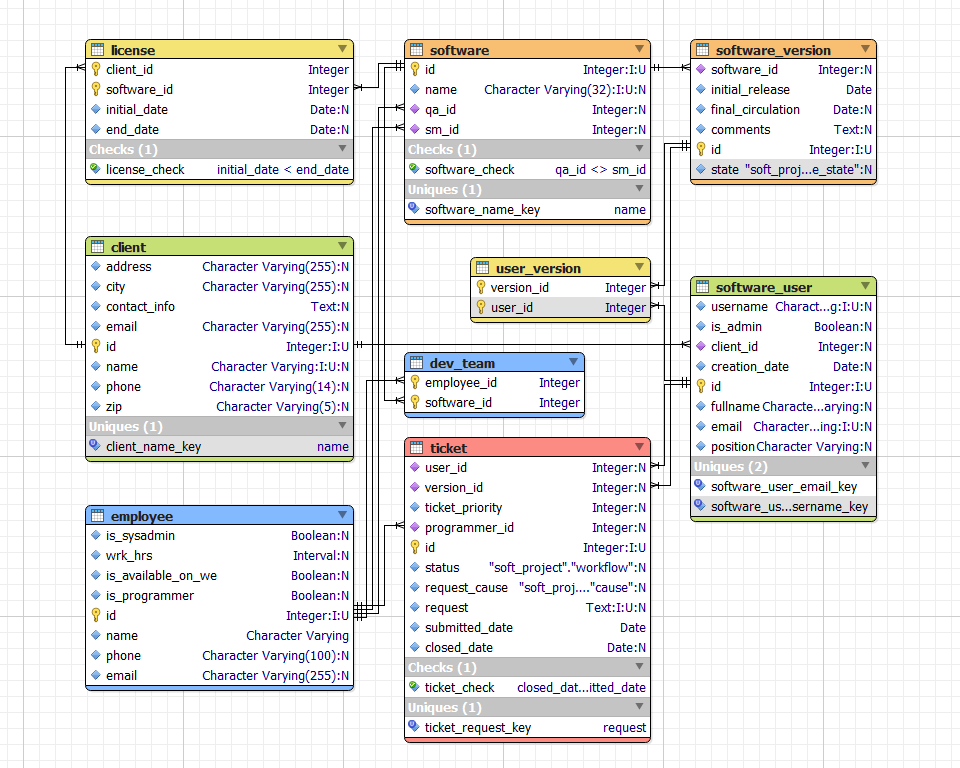
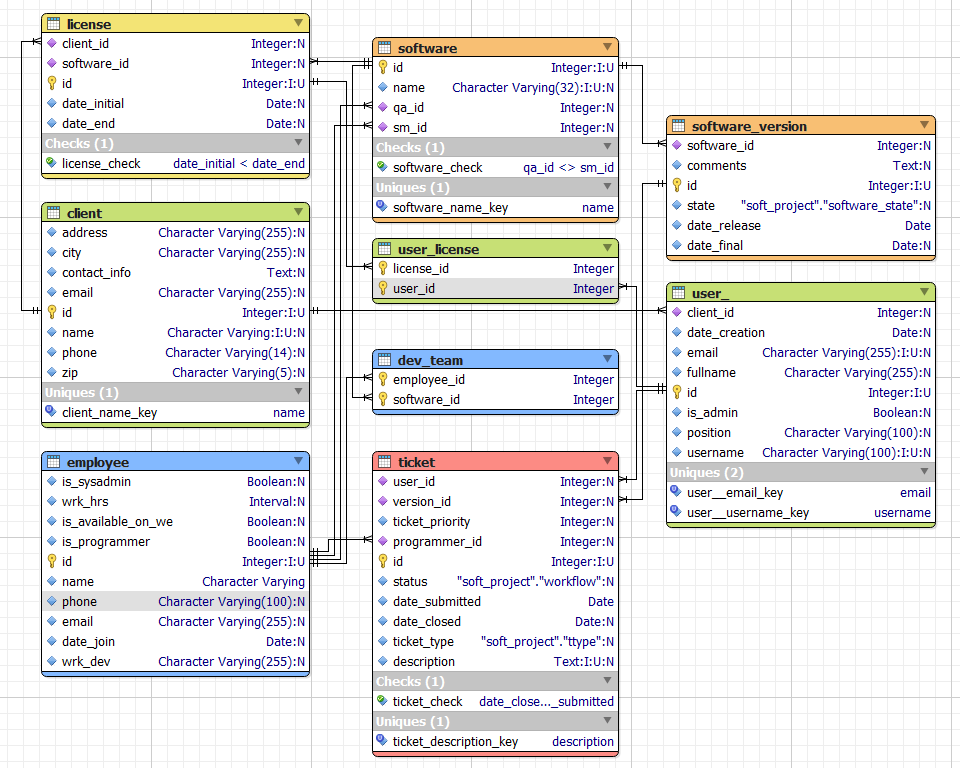
business model revised SELECT queries are yet to be updated accordingly

diff --git a/readme.md b/readme.md
@@ -10,19 +10,40 @@ The database described below has been implemented in SQL for Postgres 12:
 * [soft_project_query.sql](soft_project_query.sql) - test-queries and updates, according to
 * the original [assignment](assignment.md).
 
+## Tools
+Following tools and resources were used during project implementation:
+- [Postgres 12](https://www.postgresql.org) - database engine
+- [PgAdmin 4](https://www.pgadmin.org) - client for database tests
+- [Docker](https://www.docker.com) and [Docker Compose](https://docs.docker.com/compose/) - virtual infrastructure
+- [Valentina Studio](https://www.valentina-db.com/en/valentina-studio-overview) - modelling and ERD diagrams
+- [Visual Studio Code](https://code.visualstudio.com), [PostgreSQL client for VSCode](https://marketplace.visualstudio.com/items?itemName=cweijan.vscode-postgresql-client2) - SQL implementation and database tests
+- [DevDocs](https://devdocs.io/postgresql~12/) - PostgreSQL reference
+
+## Copyright
+2022 Vasilii Neganov, Grenoble
+
 ## Relational Model
 
 ### **Entities** and *relations*
 
 We started from analyzing the business model.
-The basic entities are **client**, a company, **users** of which are *using* according to the contract (**license**) (a) **version**(-s) of one or more pieces of **software**, *serviced* by the **development team** which *consists* of **employees** on the basis of users' *requests* stated in **tickets**. As far as the relation user--version is many-to-many, a table **user-version** similar to the one assigning employees to the software (dev_team) or 'lilcense' which embodies client--software many-to-many relation, was required in addition to these eight, totaling in nine tables.
+The basic entities are **client**, a company *hiring* **users** who are *using* according to the contract (**license**) **software** which can *have* several **versions**, and is *serviced* by the **development team** which *consists* of **employees** on the basis of users' requests stated in **tickets**.
+
+Similarly to the **dev_team** many-to-many relation employee--software, **user-license** table embodies the permissions of **users** in the framework of their companie's **licence** to *use* the specific **software** and to *issue* **tickets** thereupon. An additional table was implemented for this purpose.
+
+Since "The new version of the software is updated for all the companies that have a current contract" the **software** was associated with the **client** company directly, whereas the current version is a foreign key determined when issuing the ticket.
+
+Thus, seven tables for entities and two for many-to-many relations are required, which totals in nine.
+
 
 ### `Attributes`
 
 Each Entity table (**client**, **software**, **version**, **employees**, **user**, and **ticket**) has self-incrementing integer `id` as a primary key (PK). **client**, **user**, and **software** have unique (U) `name` keys for better handling by human beings. Primary keys of many-to-many tables are the pairs of the corresponding foreign keys (FK).
-Employees are assigned to software as an already mentioned **development team** whereas `scrum masters` or `quality assurance specialists`, as there is only one of each per software, can be added as attributes to the **software**.
+Employees are assigned to software as an already mentioned **development team** whereas `scrum masters` or `quality assurance testers`, as there is only one of each per software, can be added as attributes to the **software**.
 
 The **license** table have additional attributes characterizing the contracts -- the `dates` within which it is valid. All these considerations along with some checks and additional attributes can be clearly seen from the diagram.
+
+TODO In the latest implementation (March 2022 and later), every client is using the latest **software version** with the maximum version id. New tickets are *assigned* to it with its state being triggered to `buggy` or `old` according to the `ticket_type` (`bug` or `feature`, respectively). After closing the ticket by the scrum master (`status='solved'`), the new version is created with the same `software_id`, `id` incremented and `state='stable'`.
 
 ## ERD
 
@@ -40,7 +61,7 @@ All the employees developing all the software provided by the company
 * is system administrator?
 
 TODO
->    if yes, this user is granted the highest privileges (cf. soft_project_users.sql)
+> if yes, this user is granted the highest privileges (cf. soft_project_users.sql)
 * is prog?
   * (prog) work hours
   * (prog) availability
